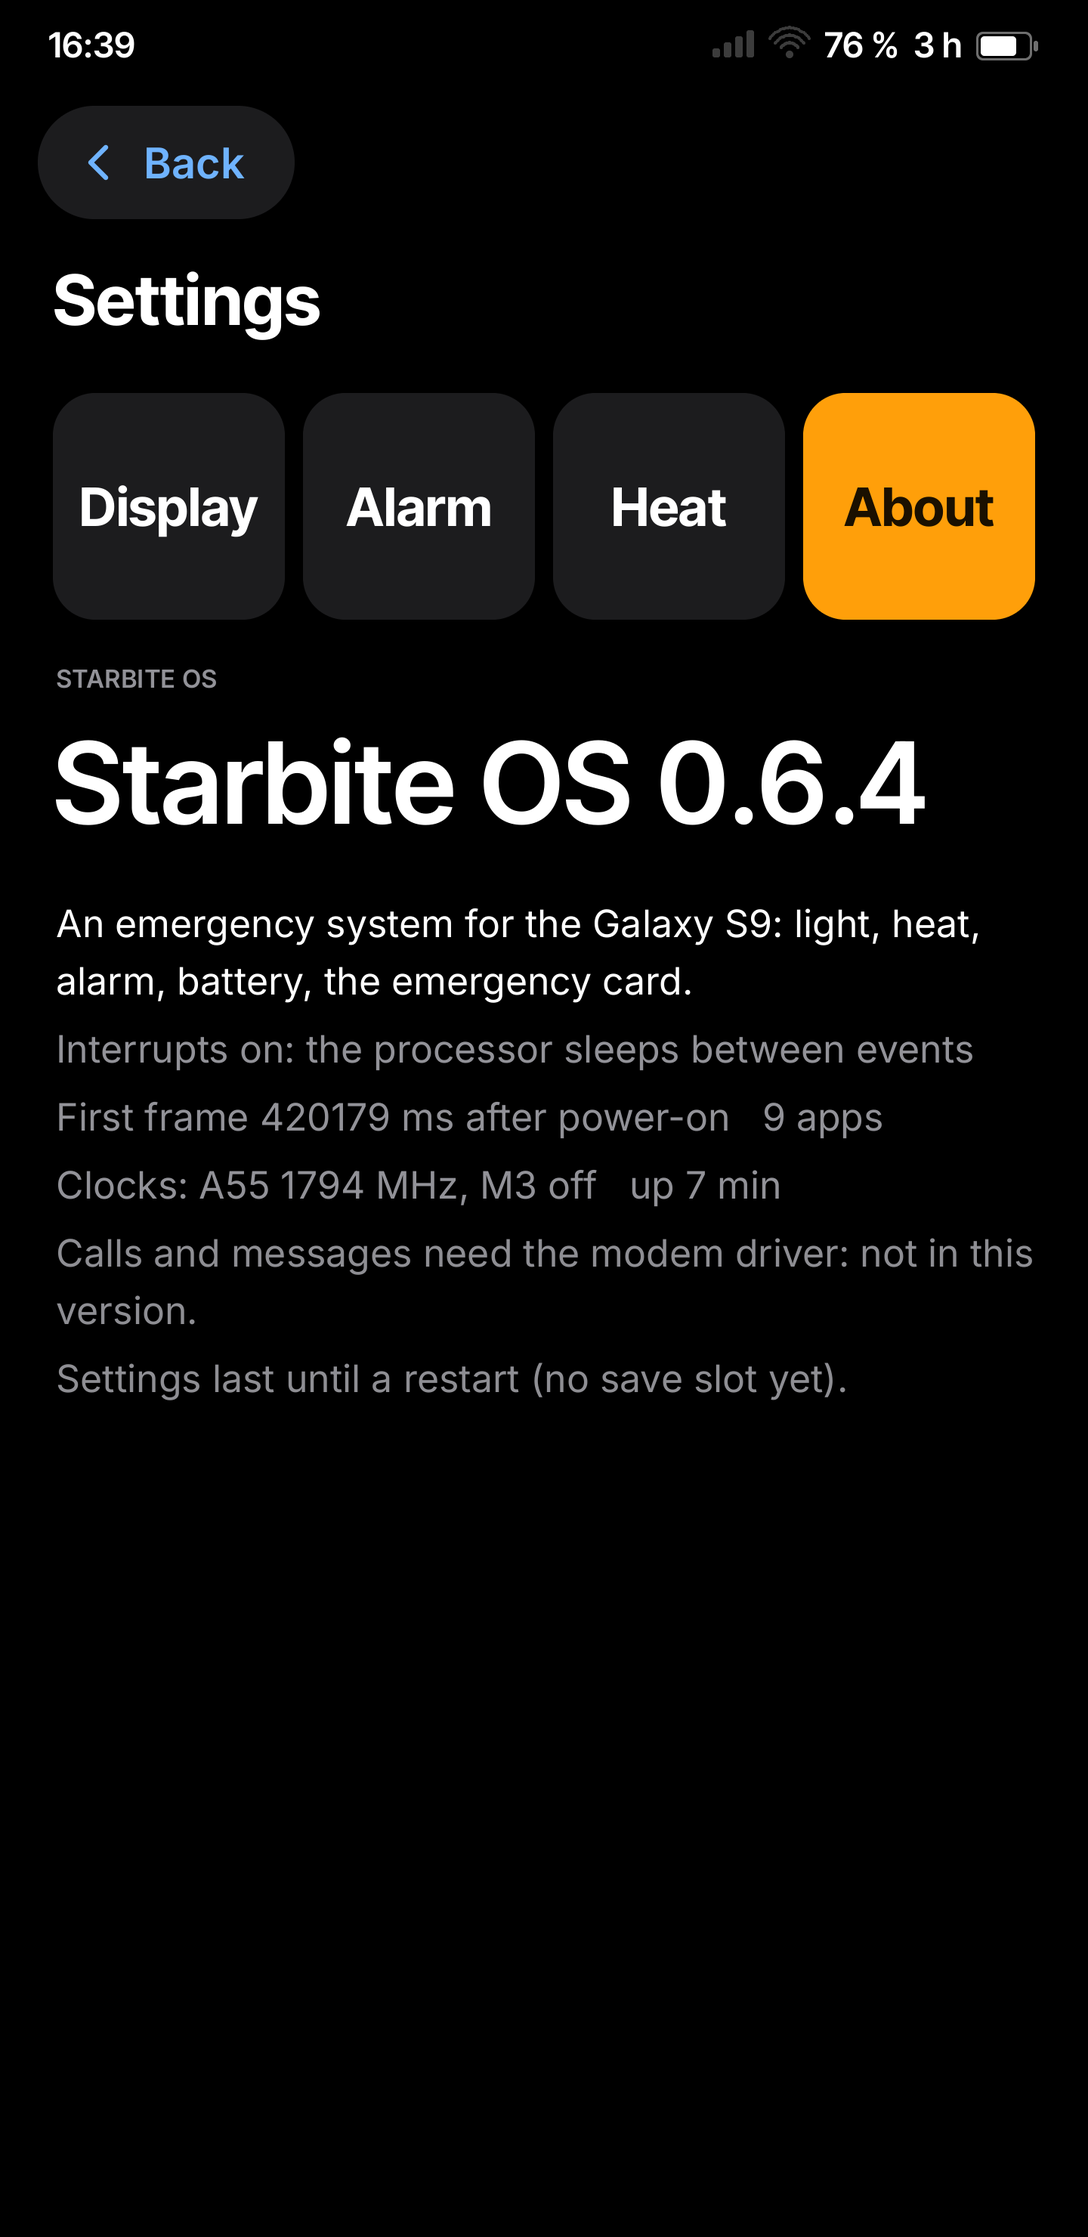
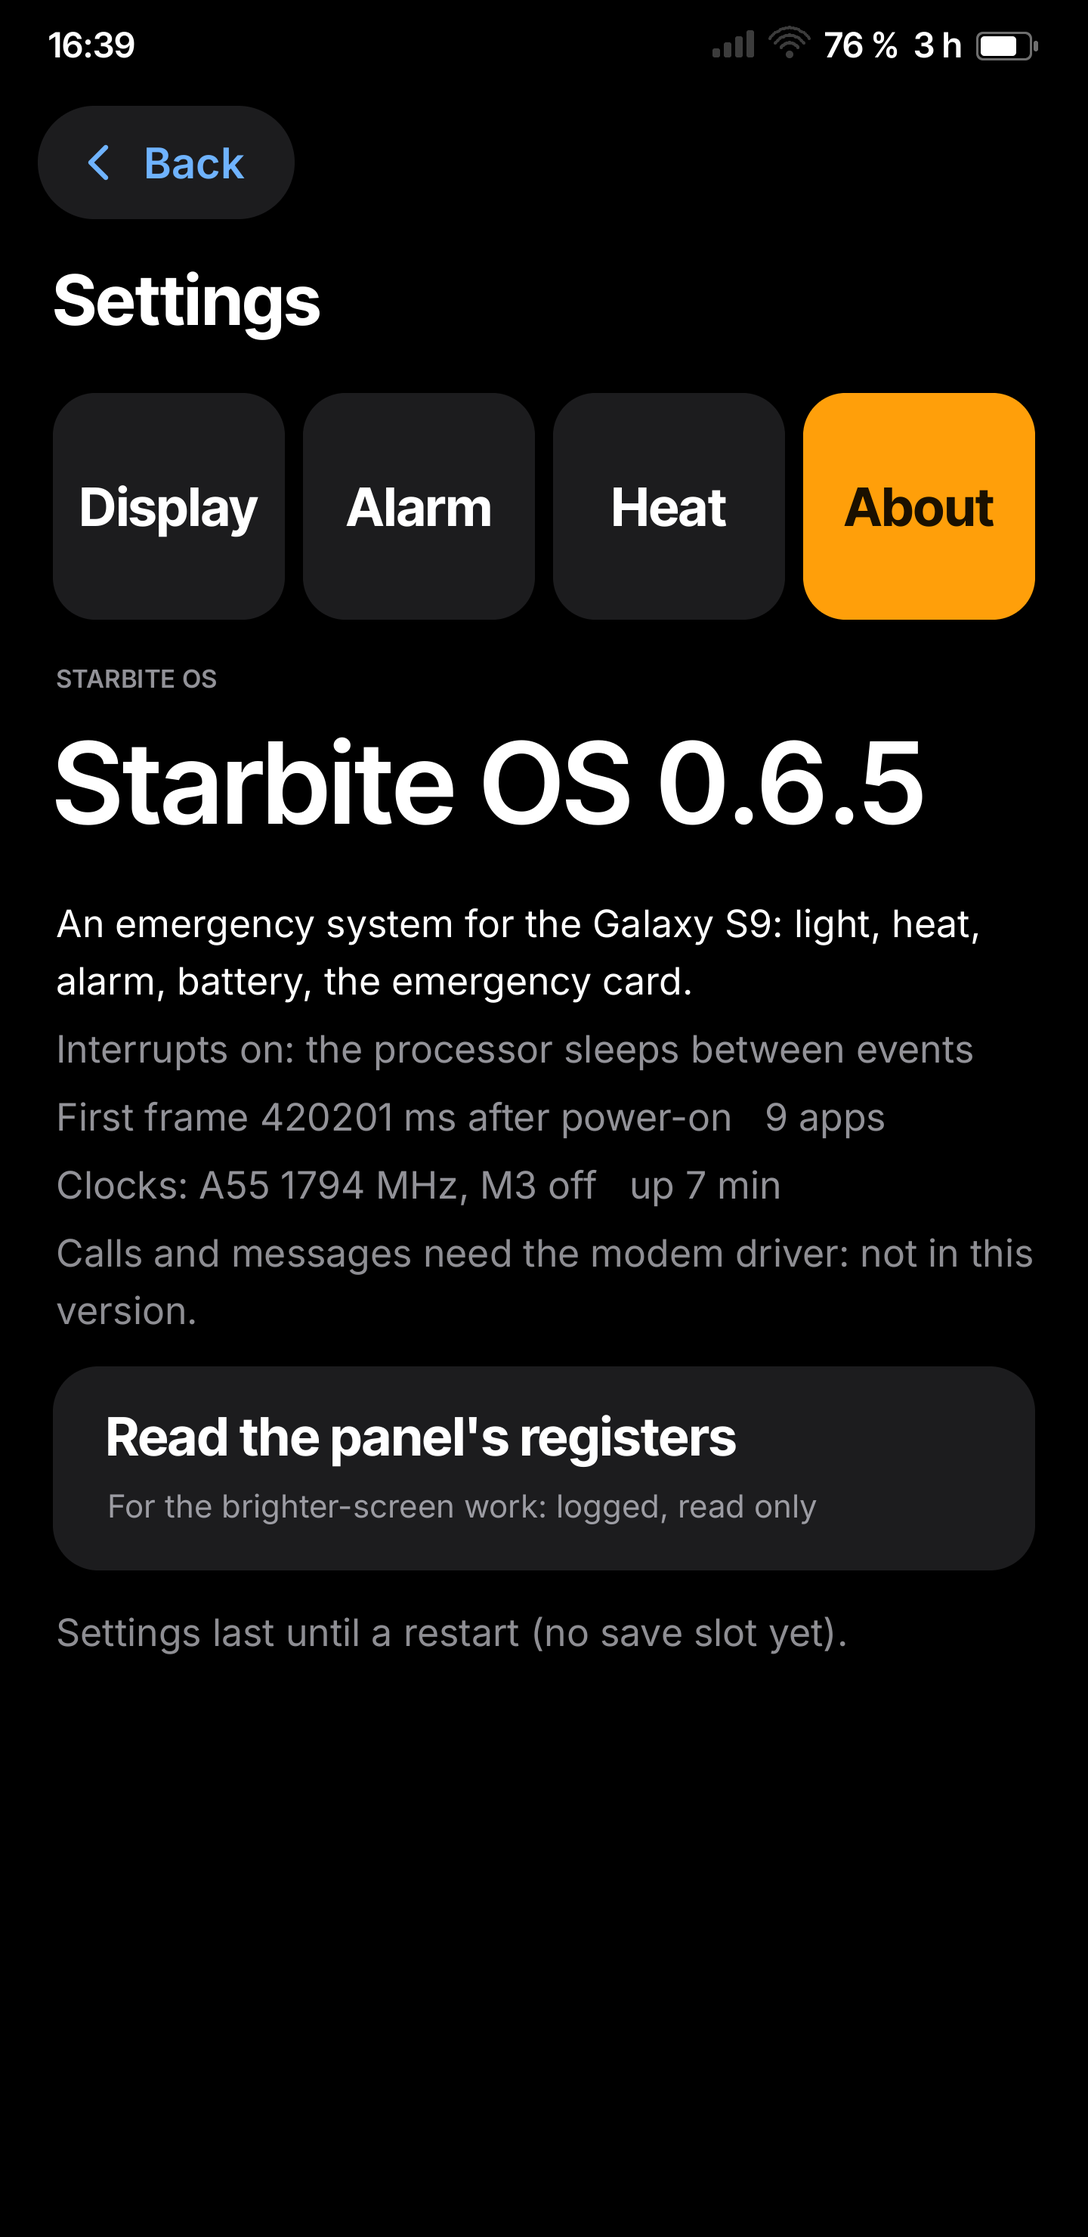
Starbite OS 0.6.5: Emergency Mode's dim clock (the panel's low-power mode), the panel's registers read only
- The dim clock (control center in Emergency Mode, off by default, until a restart): the screen-off picture is a
  dim clock in the panel's own low-power mode (ALPM 10 nits, Samsung's star_a3_s1 enter / exit tables exactly),
  redrawn once a minute; Power exits and re-sends our AOR. Everything else is the screen-off state.
- Settings > About > "Read the panel's registers": DSI reads (0x37 + DCS read with BTA, the RX FIFO) of the ID,
  CA, B3, B5, F4, B1 and B8 (offset 18), frames paused; logged for the HBM decision. Read only.
- Host: 60 scenes (control-em, aod-clock).

diff --git a/starbite/sbos/kern/panel.c b/starbite/sbos/kern/panel.c
@@ -199,6 +199,180 @@ static int effective(int level)
     return level;
 }
 
+/* 0.6.5: a DCS read (the kernel's dsim_read flow, build/em-research-brightness.md 4): the return size, the read with
+ * the bus turnaround, the answer from the RX FIFO. Frames are paused around it. Returns the bytes read or -1. */
+static int dcs_read(uint8_t reg, uint8_t *buf, unsigned n)
+{
+    if (n > 64 || !dsim_ready())
+        return -1;
+    if (((rd(DSIM_FIFOCTRL) >> 16) & 0x3fU) && dsim_wait())
+        return -1;
+    wr(DSIM_INTSRC, 1U << 18);                          /* RX_DATA_DONE */
+    wr(DSIM_INTSRC, DSIM_PH_EMPTY);
+    dsim_hdr(0x37, n, 0);                               /* set the maximum return size */
+    if (dsim_wait())
+        return -1;
+    uint32_t v = rd(DSIM_PKTHDR) & 0xfe000000U;
+    wr(DSIM_PKTHDR, v | (1U << 24) | ((uint32_t)reg << 8) | 0x06U);   /* DCS read, BTA */
+    unsigned t = 0;
+    for (; t < 100000 && !(rd(DSIM_INTSRC) & (1U << 18)); t += 10)
+        sb_udelay(10);
+    if (t >= 100000)
+        return -1;
+    wr(DSIM_INTSRC, 1U << 18);
+    int got = 0;
+    for (unsigned k = 0; k < 64 && !(rd(DSIM_FIFOCTRL) & (1U << 12)); ++k) {
+        uint32_t w = rd(DSIM + 0x60);
+        uint32_t type = w & 0xffU;
+        if (type == 0x1c || type == 0x1a) {             /* a long answer: the word count, then the data */
+            unsigned wc = (w >> 8) & 0xffffU;
+            for (unsigned i = 0; i < wc; i += 4) {
+                uint32_t d = rd(DSIM + 0x60);
+                for (unsigned b = 0; b < 4 && i + b < wc; ++b)
+                    if ((unsigned)got < n)
+                        buf[got++] = (uint8_t)(d >> (8 * b));
+            }
+        } else if (type == 0x21 || type == 0x11) {
+            buf[got++] = (uint8_t)(w >> 8);
+        } else if (type == 0x22 || type == 0x12) {
+            buf[got++] = (uint8_t)(w >> 8);
+            if ((unsigned)got < n)
+                buf[got++] = (uint8_t)(w >> 16);
+        } else if (type == 0x02) {
+            sb_logx("panel: read: an error report from the panel ", (w >> 8) & 0xffffU);
+        }
+    }
+    return got;
+}
+
+static void log_hex(const char *what, const uint8_t *b, int n)
+{
+    struct ub u;
+    ub_init(&u);
+    ub_s(&u, "panel: ");
+    ub_s(&u, what);
+    if (n < 0) {
+        ub_s(&u, ": no answer");
+    } else {
+        ub_s(&u, ":");
+        for (int i = 0; i < n; ++i) {
+            ub_c(&u, ' ');
+            ub_hex(&u, b[i], 2);
+        }
+    }
+    sb_log(u.b);
+}
+
+/* 0.6.5: read only (Settings > About): the panel's ID and the registers HBM would need (gamma CA, the HBM gamma B3,
+ * ELVSS B5, VINT F4, IRC B8 from offset 18); logged for the HBM decision. Writes only the level keys and B0 offsets. */
+int panel_dump(void)
+{
+    static const uint8_t k1on[3] = { 0x9f, 0xa5, 0xa5 }, k1off[3] = { 0x9f, 0x5a, 0x5a };
+    static const uint8_t k2on[3] = { 0xf0, 0x5a, 0x5a }, k2off[3] = { 0xf0, 0xa5, 0xa5 };
+    static const uint8_t k3on[3] = { 0xfc, 0x5a, 0x5a }, k3off[3] = { 0xfc, 0xa5, 0xa5 };
+    static const uint8_t off18[2] = { 0xb0, 18 };
+    if (!dsim_ready()) {
+        sb_log("panel: read: the link is not in command mode: nothing read");
+        return 0;
+    }
+    int was_masked = masked;
+    trig(1);                                            /* no frames during the reads */
+    sb_mdelay(20);
+    uint8_t b[64];
+    int n = dcs_read(0x04, b, 3);
+    log_hex("ID (04)", b, n);
+    int ok = n == 3;
+    if (!dcs_long(k1on, 3) && !dcs_long(k2on, 3) && !dcs_long(k3on, 3)) {
+        n = dcs_read(0xca, b, 34);
+        log_hex("gamma (CA)", b, n);
+        n = dcs_read(0xb3, b, 34);
+        log_hex("HBM gamma (B3)", b, n);
+        n = dcs_read(0xb5, b, 23);
+        log_hex("ELVSS (B5)", b, n);
+        n = dcs_read(0xf4, b, 6);
+        log_hex("VINT (F4)", b, n);
+        n = dcs_read(0xb1, b, 2);
+        log_hex("AOR (B1)", b, n);
+        if (!dcs_long(off18, 2)) {
+            n = dcs_read(0xb8, b, 17);
+            log_hex("IRC (B8 from 18)", b, n);
+        }
+    } else {
+        ok = 0;
+    }
+    (void)dcs_long(k3off, 3);
+    (void)dcs_long(k2off, 3);
+    (void)dcs_long(k1off, 3);
+    if (!was_masked)
+        trig(0);
+    else
+        panel_kick();
+    sb_log(ok ? "panel: registers read (read only)" : "panel: the register read did not complete");
+    return ok;
+}
+
+/* 0.6.5: the panel's own low-power mode (ALPM, 10 nits), Samsung's star_a3_s1 enter / exit tables exactly
+ * (build/em-research-panel-hbm-lowpower.md 2.2): the picture in the panel's RAM stays; frames may still be sent.
+ * Every enter is paired with an exit; the exit re-sends our AOR (the enter replaced it with 0B 74). */
+int panel_in_lpm;
+
+static int seq(const uint8_t *const *cmds, const uint8_t *lens, unsigned n)
+{
+    int r = 0;
+    for (unsigned i = 0; i < n && !r; ++i)
+        r = dcs_long(cmds[i], lens[i]);
+    return r;
+}
+
+int panel_lpm(int on)
+{
+    static const uint8_t k2on[3] = { 0xf0, 0x5a, 0x5a }, k2off[3] = { 0xf0, 0xa5, 0xa5 };
+    static const uint8_t k3on[3] = { 0xfc, 0x5a, 0x5a }, k3off[3] = { 0xfc, 0xa5, 0xa5 };
+    static const uint8_t aor[3] = { 0xb1, 0x0b, 0x74 }, upd[2] = { 0xf7, 0x03 };
+    static const uint8_t nit[7] = { 0xbb, 0x07, 0x0c, 0x9b, 0xee, 0x4f, 0x84 };     /* ALPM 10 nits */
+    static const uint8_t avs_off[2] = { 0xb0, 0x2b }, avs[2] = { 0xfd, 0x03 };
+    static const uint8_t mode[2] = { 0x53, 0x02 }, mode_off[2] = { 0x53, 0x00 };
+    static const uint8_t avc2_off[6] = { 0xf4, 0xeb, 0x23, 0x0b, 0x17, 0x8a }, avc2_on[6] = { 0xf4, 0xeb, 0x23, 0x0b, 0x17, 0xca };
+    static const uint8_t bb_exit[2] = { 0xbb, 0x03 };
+    on = !!on;
+    if (on == panel_in_lpm)
+        return 1;
+    if (!dsim_ready())
+        return 0;
+    int r;
+    if (on) {
+        const uint8_t *a[] = { k2on, aor, upd, k2off };
+        const uint8_t al[] = { 3, 3, 2, 3 };
+        r = seq(a, al, 4);
+        if (!r) {
+            sb_mdelay(17);                  /* one frame at 60 Hz */
+            const uint8_t *b[] = { k2on, nit, k3on, avs_off, avs, k3off, mode, avc2_off, upd };
+            const uint8_t bl[] = { 3, 7, 3, 2, 2, 3, 2, 6, 2 };
+            r = seq(b, bl, 9);
+        }
+        (void)dcs_long(k3off, 3);
+        (void)dcs_long(k2off, 3);           /* the keys closed, even after a failure */
+        panel_in_lpm = 1;                   /* a partial enter is undone by the exit too */
+    } else {
+        const uint8_t *a[] = { k2on, bb_exit, avc2_on, mode_off };
+        const uint8_t al[] = { 3, 2, 6, 2 };
+        r = seq(a, al, 4);
+        (void)dcs_long(k2off, 3);
+        if (!r)
+            panel_in_lpm = 0;
+        applied = -2;                       /* our AOR again (the enter replaced it) */
+        (void)send_level(effective(panel_bright_level) ? effective(panel_bright_level) : 0);
+    }
+    if (r)
+        ++dcs_fail;
+    sb_log(on ? (r ? "panel: the low-power mode's enter did NOT go out (the exit follows at the wake)" :
+                     "panel: low-power mode (ALPM, 10 nits): the dim clock")
+              : (r ? "panel: the low-power mode's exit did NOT go out" : "panel: low-power mode off, our brightness back"));
+    if (on && !r && SAVE_ON)
+        panel_kick();
+    return !r;
+}
+
 void panel_emergency(int on)
 {
     on = !!on;

diff --git a/starbite/sbos/kern/ui.c b/starbite/sbos/kern/ui.c
@@ -1096,6 +1096,12 @@ static void build_control(void)
     scopy(e->b, sizeof(e->b), look_emergency ? "On: the big emergency screens; the phone saves and switches off 5 minutes after the screen goes off."
                                              : "The big emergency screens, and the phone saves and switches off 5 minutes after the screen goes off.");
     e->color = look_emergency ? C_RED : C_L2;
+    if (look_emergency) {
+        e = add(cur, &ncur, E_TOGGLE);
+        e->id = 6;
+        scopy(e->a, sizeof(e->a), "Dim clock when off (new)");
+        e->value = em_aod;
+    }
     e = add(cur, &ncur, E_TOGGLE);
     e->id = 2;
     scopy(e->a, sizeof(e->a), "Flashlight");
@@ -1134,6 +1140,11 @@ static void control_pick(const struct el *e, int x)
     if (e->kind == E_TOGGLE) {
         if (e->id == 1)
             kui_set_emergency(!e->value);
+        else if (e->id == 6) {
+            em_aod = !e->value;             /* 0.6.5: until a restart (a first run with the user) */
+            sb_log(em_aod ? "ui: Emergency Mode's dim clock when the screen is off: on (the panel's low-power mode)"
+                          : "ui: Emergency Mode's dim clock: off (black)");
+        }
         else if (e->id == 2) {
             if (torch_set(!e->value) != 0 && !e->value)
                 kui_toast("The LED is not available", 2000);
@@ -1987,6 +1998,45 @@ void kui_power_menu(void)
     full = dirty = 1;
 }
 
+/* 0.6.5: the dim clock for Emergency Mode's screen-off (the panel's low-power mode shows it): mostly black */
+int em_aod;
+
+void kui_aod_frame(void)
+{
+    struct el els[3];
+    memset(els, 0, sizeof(els));
+    els[0].kind = E_CLOCK;
+    fmt_clock(els[0].b, sizeof(els[0].b), 0);
+    els[0].x = 0, els[0].y = 1000, els[0].w = UI_W, els[0].h = 460;
+    struct sbos_battery b;
+    battery_get(&b);
+    els[1].kind = E_CTEXT;
+    {
+        struct ub u;
+        ub_init(&u);
+        if (b.ok) {
+            ub_dec(&u, (uint64_t)(b.pct < 0 ? 0 : b.pct));
+            ub_s(&u, " %");
+        }
+        scopy(els[1].b, sizeof(els[1].b), u.b);
+    }
+    els[1].value = F_ROW_M;
+    els[1].color = C_L2;
+    els[1].x = 0, els[1].y = 1500, els[1].w = UI_W, els[1].h = 100;
+    els[2].kind = E_CTEXT;
+    scopy(els[2].b, sizeof(els[2].b), "Emergency Mode: press Power");
+    els[2].value = F_SMALL;
+    els[2].color = C_L3;
+    els[2].x = 0, els[2].y = 2500, els[2].w = UI_W, els[2].h = 80;
+    ui_noclip();
+    ui_fill(0, 0, UI_W, UI_H, 0xff000000U);
+    for (int i = 0; i < 3; ++i)
+        draw_el(&els[i], -1);
+    ui_dirty_all();
+    ui_present();
+    panel_kick();
+}
+
 void kui_screen_changed(int on)
 {
     if (on) {
@@ -1999,11 +2049,15 @@ void kui_screen_changed(int on)
         if (screen != SCR_SOS) {
             screen = SCR_OFF;
             shown_screen = SCR_OFF;                 /* the wake draws at once (no transition from black) */
-            ui_noclip();
-            ui_fill(0, 0, UI_W, UI_H, 0xff000000U);   /* v0.1: a black screen (OLED: those pixels are off) */
-            ui_dirty_all();
-            ui_present();
-            panel_kick();                       /* the black frame must reach the panel */
+            if (em_aod && look_emergency) {
+                kui_aod_frame();                /* 0.6.5: the dim clock (services.c puts the panel in low power) */
+            } else {
+                ui_noclip();
+                ui_fill(0, 0, UI_W, UI_H, 0xff000000U);   /* v0.1: a black screen (OLED: those pixels are off) */
+                ui_dirty_all();
+                ui_present();
+                panel_kick();                   /* the black frame must reach the panel */
+            }
             nshown = 0;
         }
     }

diff --git a/starbite/sbos/apps/settings.c b/starbite/sbos/apps/settings.c
@@ -44,7 +44,8 @@ static void about(void)
     ui_textline("Calls and messages need the modem driver: not in this version.", GREY);
 }
 
-static int led_refused;                     /* 0.6.3: the LED chip did not answer */
+static int led_refused;
+static int dump_r;                          /* 0.6.5: the panel read: 1 done, -1 not */                     /* 0.6.3: the LED chip did not answer */
 
 static void show(void)
 {
@@ -82,6 +83,8 @@ static void show(void)
         ui_textline("Heat stops by itself at 42 \xc2\xb0" "C battery, 46 \xc2\xb0" "C case, 15 % battery or after 30 minutes.", GREY);
     } else {
         about();
+        ui_button(10, "Read the panel's registers", dump_r == 1 ? "Done: in the log (read only)" :
+                  dump_r < 0 ? "Did not complete (logged)" : "For the brighter-screen work: logged, read only", 0);
     }
     ui_textline(setting_get(SET_SAVED) == 1 ? "Saved on this phone." : "Settings last until a restart (no save slot yet).", GREY);
     ui_end();
@@ -92,6 +95,9 @@ void app_event(const struct sbos_event *ev)
     if (ev->type == EV_APP_START) {
         ui_tile("Display, alarm, about");
     } else if (ev->type == EV_APP_SHOW) {
+        show();
+    } else if (ev->type == EV_APP_BUTTON && ev->id == 10) {
+        dump_r = setting_set(SET_PANEL_DUMP, 1) == 0 ? 1 : -1;
         show();
     } else if (ev->type == EV_APP_TOGGLE) {
         int id = ev->id == 2 ? SET_PANEL_SAVE : ev->id == 3 ? SET_PANEL_OFF : ev->id == 4 ? SET_SOS_LED :

diff --git a/starbite/sbos/kern/services.c b/starbite/sbos/kern/services.c
@@ -367,8 +367,19 @@ static void screen(int on)
         return;
     pocket_lock = 0;
     K.screen_on = on;
-    hw_screen(on);
+    int aod = !on && em_aod && look_emergency && !sos_active();
+    if (on && panel_in_lpm) {
+        (void)panel_lpm(0);                 /* 0.6.5: out of the dim clock first */
+        kt_cancel(KT_POWER, 3);
+    }
+    if (!aod)
+        hw_screen(on);                      /* (the dim clock keeps the panel on, in its low-power mode) */
     kui_screen_changed(on);
+    if (aod) {
+        sb_mdelay(40);                      /* the clock's frame into the panel's RAM first */
+        (void)panel_lpm(1);
+        kt_set(KT_POWER, 3, sb_ms(), 60000, 1);     /* the clock, once a minute */
+    }
     if (!on) {
         /* v0.1: black, nothing drawn until the Power key */
         uint32_t *bb = 0;
@@ -467,6 +478,13 @@ int power_auto_off(int rehearse)
 
 void power_timer(unsigned id)
 {
+    if (id == 3) {
+        if (!K.screen_on && panel_in_lpm)
+            kui_aod_frame();                /* 0.6.5: the dim clock's minute */
+        else
+            kt_cancel(KT_POWER, 3);
+        return;
+    }
     if (id == 2) {
         if (!K.screen_on && auto_off_min && !power_auto_off(sbos_selftest_enabled))
             kt_set(KT_POWER, 2, sb_ms(), 10U * 60000U, 0);  /* kept on: ask again in 10 minutes */

diff --git a/starbite/sbos/kern/kern.h b/starbite/sbos/kern/kern.h
@@ -8,7 +8,7 @@
 #include <stddef.h>
 #include "sbapp.h"
 
-#define SBOS_VERSION "0.6.4"
+#define SBOS_VERSION "0.6.5"
 
 /* ---- timers (timer.c, pure) ------------------------------------------------------------------ */
 /* Owners: kernel tasks 0..15, apps 16 + app index. */
@@ -273,6 +273,11 @@ extern int panel_bright_level;
 int panel_brightness(int level);    /* the user's level: 0 untouched, 1..4 low..high: 1 done */
 void panel_boost(int who, int on);  /* 1 Extreme, 2 SOS: the top level while any asks */
 void panel_emergency(int on);       /* 0.6.1: Emergency Mode's power profile */
+int panel_lpm(int on);              /* 0.6.5: the panel's low-power mode (ALPM 10 nits); 1 done */
+int panel_dump(void);               /* 0.6.5: read only: the panel's ID, gamma, ELVSS, VINT, AOR, IRC (logged) */
+extern int panel_in_lpm;
+extern int em_aod;                  /* 0.6.5: Emergency Mode: a dim clock (the panel's low-power mode) instead of black */
+void kui_aod_frame(void);           /* draws and sends the dim clock's picture */
 /* files on the card, read only (files.c) */
 int kfile_read(const char *path, void *dst, uint32_t cap);
 extern int sos_led_on;              /* settings: the LED flashes with SOS */

diff --git a/starbite/sbos/sdk/sbapp.h b/starbite/sbos/sdk/sbapp.h
@@ -181,7 +181,8 @@ enum { SET_PANEL_SAVE = 1, SET_PANEL_OFF = 2, SET_SOS_LED = 3, SET_SCREEN_OFF_S 
        SET_HEAT_TARGET_C10 = 13 /* 0.6.2: Keep warm's battery target, 0.1 C (50..350) */,
        SET_HEAT_CURRENT_STOP = 14 /* 0.6.2: Manual's 3.5 A battery-current stop: 1 on (default), 0 off; until a restart */,
        SET_HEAT_SOC_STOP_C10 = 15 /* 0.6.3: Manual's SoC stop, 0.1 C: 0 off (default) or 700..1250 */,
-       SET_LED_FULL = 16 /* 0.6.3: the LED at its rated currents over I2C (torch 240 mA, SOS flash pulses 1250 mA) */ };
+       SET_LED_FULL = 16 /* 0.6.3: the LED at its rated currents over I2C (torch 240 mA, SOS flash pulses 1250 mA) */,
+       SET_PANEL_DUMP = 17 /* 0.6.5: write 1: read the panel's registers (read only, logged) */ };
 
 /* sensor_read ids (0.3): temperatures in 0.1 C, -1000 unknown */
 enum { SENSOR_BATTERY_C10 = 1, SENSOR_SKIN_C10 = 2, SENSOR_SOC_C10 = 3, SENSOR_GPU_C10 = 4 };

diff --git a/starbite/sbos/kern/app.c b/starbite/sbos/kern/app.c
@@ -490,6 +490,8 @@ static int64_t setting_set_k(uint64_t id, uint64_t v)
         sb_log(arg[1] ? "settings: Manual's 3.5 A battery-current stop: on" :
                         "settings: Manual's 3.5 A battery-current stop: OFF (the user's choice)");
         return 0;
+    case SET_PANEL_DUMP:
+        return panel_dump() ? 0 : SBOS_EAGAIN;
     case SET_LED_FULL:
         led_full = arg[1] != 0;
         sb_log(led_full ? "settings: the LED at its rated currents (S2MPB02 over I2C): on" :

diff --git a/docs/STARBITE-OS.md b/docs/STARBITE-OS.md
@@ -829,6 +829,20 @@ preview's 20 scenes, 0 px unpresented; image 5181440 bytes, sha256 b3aad7624ea40
   normal AOR (0x0440); no transition when the screen wakes; the overflow log's bit shift; long tile lines cut
   on a character boundary before the compare; build.sh fails if the self-test image did not get the self test.
 
+### 12.18 Version 0.6.5: Emergency Mode's dim clock (the panel's low-power mode), the panel's registers read (2026-11-08)
+
+- **The dim clock** (the control center in Emergency Mode: "Dim clock when off (new)", off by default, until a
+  restart): when the screen would go off, a mostly black picture (the clock, the charge, "press Power") goes to
+  the panel, then the panel's own low-power mode (ALPM, 10 nits) with Samsung's star_a3_s1 enter table exactly
+  (`build/em-research-panel-hbm-lowpower.md` 2.2: AOR 0B 74, one frame, BB 07 0C 9B EE 4F 84, AVS on (B0 2B, FD 03,
+  level-3 key), 53 02, AVC2 off (F4 .. 8A), F7 03). The clock is redrawn once a minute (frames still go out in the
+  low-power mode). Everything else is the screen-off state (the A55 lowered, Power wakes, the 5-minute switch-off).
+  The wake: the exit table (BB 03, AVC2 on, 53 00), then our AOR again. Never with sleep-in or display-off.
+- **The panel's registers, read only** (Settings > About > "Read the panel's registers"): the DSI read path (set the
+  return size 0x37, DCS read 0x06 with the bus turnaround, the RX FIFO), frames paused around it: the ID (04), CA
+  (gamma, 34), B3 (HBM gamma, 34), B5 (ELVSS, 23), F4 (VINT), B1 (AOR), B8 from offset 18 (IRC, 17), logged. HBM
+  itself waits for these values (it writes CA / B5 / F4 / B8 as one set built from them, and must restore them).
+
 ### 12.17 Version 0.6.4: the Wi-Fi join never blocks (2026-11-08)
 
 - T14 passed on the phone with 0.6.3's self test (the `sbos-state` entry made; the fence's standing grant; a dry run,
